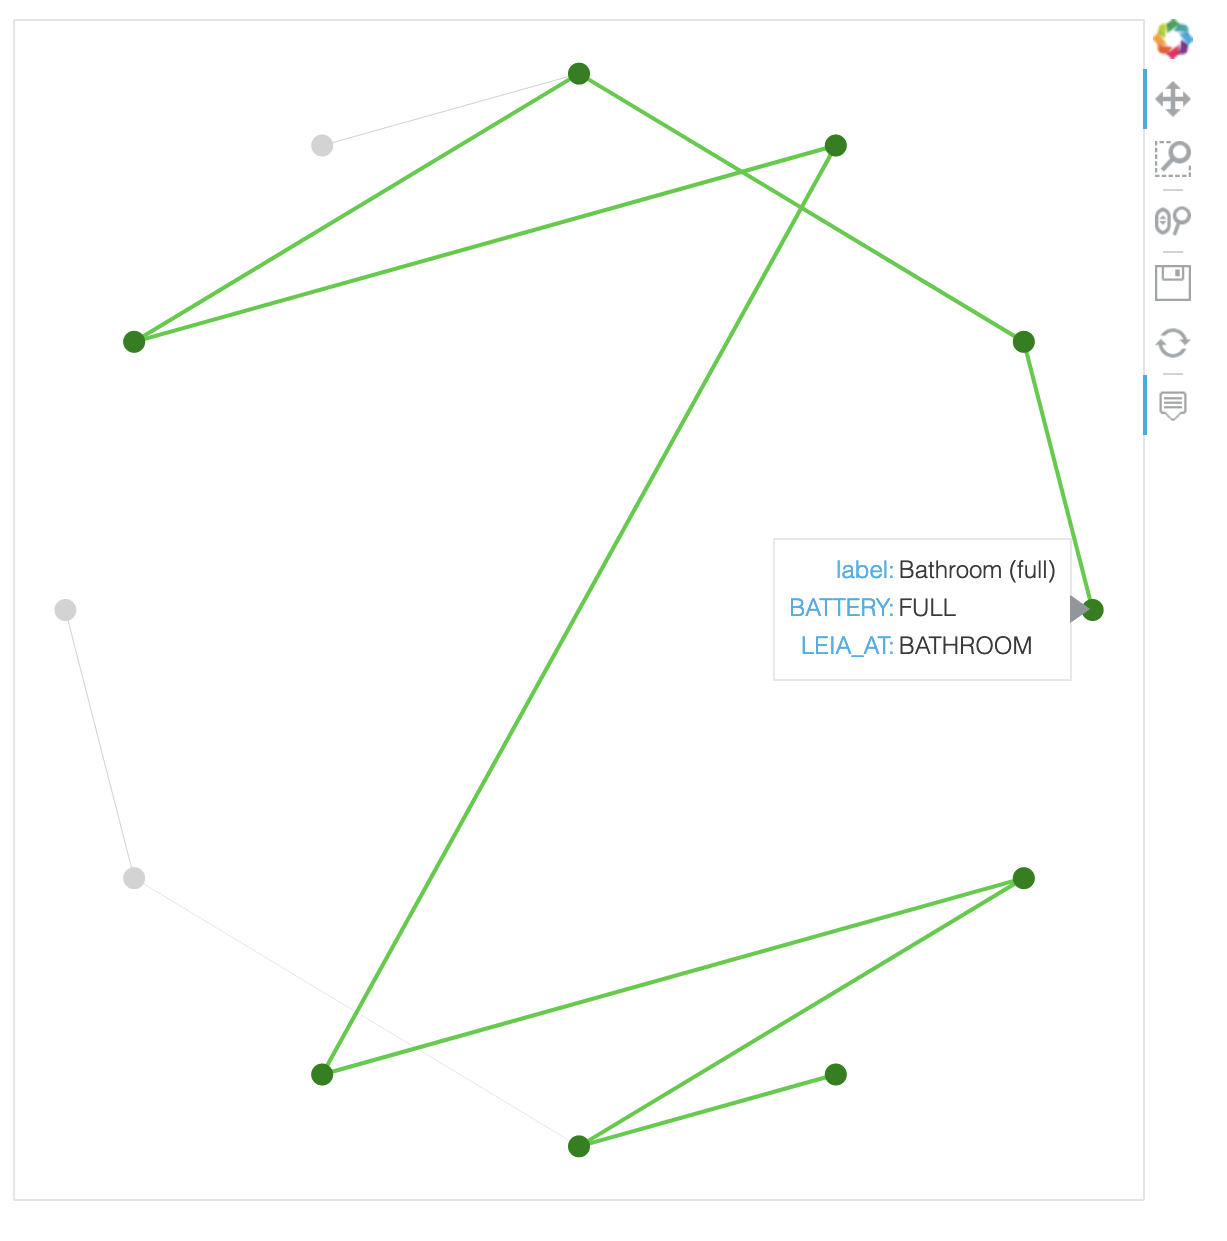
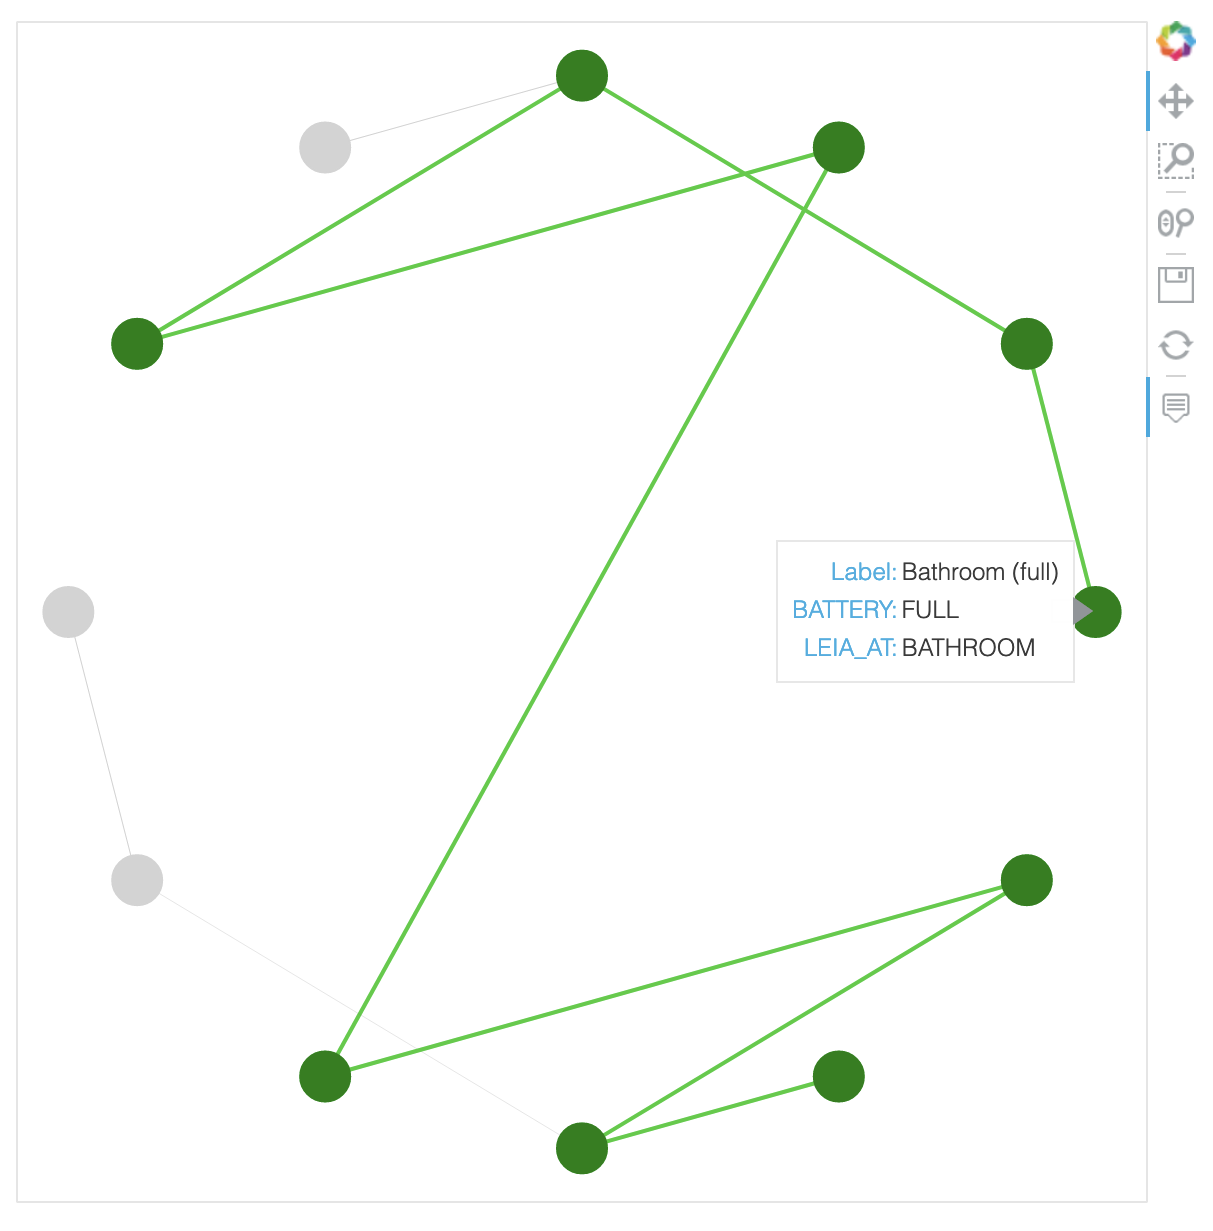
Simpler examples. Resolves #1

diff --git a/domain.py b/domain.py
@@ -12,8 +12,8 @@ class Domain(nx.DiGraph):
         super().__init__(self, *args, **kwargs)
 
         self.actions = {action.name: action for action in actions}
-        self.path = None
-        self.solution = None
+        self.path = []
+        self.solution = []
 
         stack = set()
         for action in actions:
@@ -55,15 +55,36 @@ class Domain(nx.DiGraph):
 
         return self.solution
 
-    def plot(self, **kwargs):
+    def plot(self, labels, output_file=None, arrows=False, node_color=None,
+             edge_color=None, width=None, **kwargs):
+        """
+        Create a matplotlib circular plot with domain nodes and chosen path
+        """
+
+        if node_color is None:
+            node_color = ["green" if node in self.path else "lightgray"
+                          for node in self.nodes]
+
+        if edge_color is None:
+            edge_color = ["limegreen" if edge in self.solution or
+                          edge[::-1] in self.solution else "gray"
+                          for edge in self.edges]
+
+        if width is None:
+            width = [2 if edge in self.solution else 0.1
+                     for edge in self.edges]
 
         layout = nx.circular_layout(self)
-        nx.draw_networkx(self, pos=layout, **kwargs)
+        nx.draw_networkx(self, labels=labels, arrows=arrows, pos=layout,
+                         node_color=node_color, edge_color=edge_color,
+                         width=width, **kwargs)
+        if output_file:
+            plt.savefig(output_file)
 
         plt.show()
 
     def plot_bokeh(self, labels, output_file=None, node_size=4,
-                   node_color=None, width=None, edge_color=None):
+                   node_color=None, edge_color=None, width=None, **kwargs):
 
         # Unfortunately, nodes in Bokeh have to be strings or ints
 
@@ -79,29 +100,30 @@ class Domain(nx.DiGraph):
                 tooltips += [(key, f"@{key}")]
             break
 
-        if node_color:
-            node_attributes = {labels[key]: value
-                               for key, value in node_color.items()}
-            nx.set_node_attributes(plot_d, node_attributes, "node_color")
-            fill_color = "node_color"
-        else:
-            fill_color = "gray"
+        if node_color is None:
+            node_color = {labels[node]: "green"
+                          if node in self.path else "lightgray"
+                          for node in self.nodes}
 
-        if edge_color:
-            edge_attributes = {(labels[key[0]], labels[key[1]]): value
-                               for key, value in edge_color.items()}
-            nx.set_edge_attributes(plot_d, edge_attributes, "edge_color")
-            line_color = "edge_color"
-        else:
-            line_color = "black"
+        nx.set_node_attributes(plot_d, node_color, "node_color")
+        fill_color = "node_color"
 
-        if width:
-            edge_attributes = {(labels[key[0]], labels[key[1]]): value
-                               for key, value in width.items()}
-            nx.set_edge_attributes(plot_d, edge_attributes, "edge_width")
-            line_width = "edge_width"
-        else:
-            line_width = 1
+        if edge_color is None:
+            edge_color = {(labels[edge[0]], labels[edge[1]]): "limegreen"
+                          if edge in self.solution
+                          or edge[::-1] in self.solution else "gray"
+                          for edge in self.edges}
+
+        nx.set_edge_attributes(plot_d, edge_color, "edge_color")
+        line_color = "edge_color"
+
+        if width is None:
+            width = {(labels[edge[0]], labels[edge[1]]): 2
+                     if edge in self.solution else 0.1
+                     for edge in self.edges}
+
+        nx.set_edge_attributes(plot_d, width, "edge_width")
+        line_width = "edge_width"
 
         graph = bkplt.from_networkx(plot_d, nx.circular_layout)
         graph.node_renderer.glyph = mod.Circle(size=node_size,

diff --git a/lights.py b/lights.py
@@ -60,24 +60,12 @@ def main(num_lights):
         print("\nOnce all lights are on, plot domain graph and solution")
 
         labels = {node: node_to_label(node) for node in lights.nodes}
-        node_colors = {node: "green" if node in lights.path else "lightgray"
-                       for node in lights.nodes}
-        edge_colors = {edge: "limegreen" if edge in lights.solution
-                       or edge[::-1] in lights.solution else "gray"
-                       for edge in lights.edges}
-        edge_widths = {edge: 2 if edge in lights.solution else 0.1
-                       for edge in lights.edges}
 
         if num_lights <= 5:
-            lights.plot(labels=labels, arrows=False, font_size=9,
-                        node_color=node_colors.values(),
-                        edge_color=edge_colors.values(),
-                        width=list(edge_widths.values()))
+            lights.plot(labels=labels, font_size=9)
 
         else:
-            lights.plot_bokeh(labels=labels, node_color=node_colors,
-                              node_size=10, edge_color=edge_colors,
-                              width=edge_widths)
+            lights.plot_bokeh(labels=labels, node_size=10)
 
     print("\nBye")
 

diff --git a/leia.py b/leia.py
@@ -77,24 +77,12 @@ def main(plot=None):
 
     labels = {node: "{} ({})".format(node[1][1].title(), node[0][1].lower())
               for node in leia.nodes}
-    node_colors = {node: "green" if node in leia.path else "lightgray"
-                   for node in leia.nodes}
-    edge_colors = {edge: "limegreen" if edge in leia.solution
-                   or edge[::-1] in leia.solution else "gray"
-                   for edge in leia.edges}
-    edge_widths = {edge: 2 if edge in leia.solution else 0.1
-                   for edge in leia.edges}
 
     if plot == "matplotlib":
-        leia.plot(labels=labels, arrows=False, font_size=9,
-                  node_color=node_colors.values(),
-                  edge_color=edge_colors.values(),
-                  width=list(edge_widths.values()))
+        leia.plot(labels=labels, font_size=9)
 
     elif plot == "bokeh":
-        leia.plot_bokeh(labels=labels, node_color=node_colors,
-                        node_size=10, edge_color=edge_colors,
-                        width=edge_widths)
+        leia.plot_bokeh(labels=labels,  node_size=25)
 
     elif plot:
         print(f"Unknown plotting method: {plot}")

diff --git a/leia.md b/leia.md
@@ -3,10 +3,10 @@
 In the [PlanSys 2
 Tutorial](https://intelligentroboticslab.gsyc.urjc.es/ros2_planning_system.github.io/tutorials/docs/terminal_usage.html)
 pages there is a simple example on how to use Plansys 2 from the terminal. In
-the example, a discharged robot named LEIA has to be moved from the entrance of
+the example, a discharged robot named LEIA has to be moved from the entrance to
 the bathroom, but first it has to be recharged. 
 
-The LEIA example is implemented in [leya.py](./leia.py). It can be executed by
+The LEIA example is implemented in [leia.py](./leia.py). It can be executed by
 typing:
 
 ```sh
